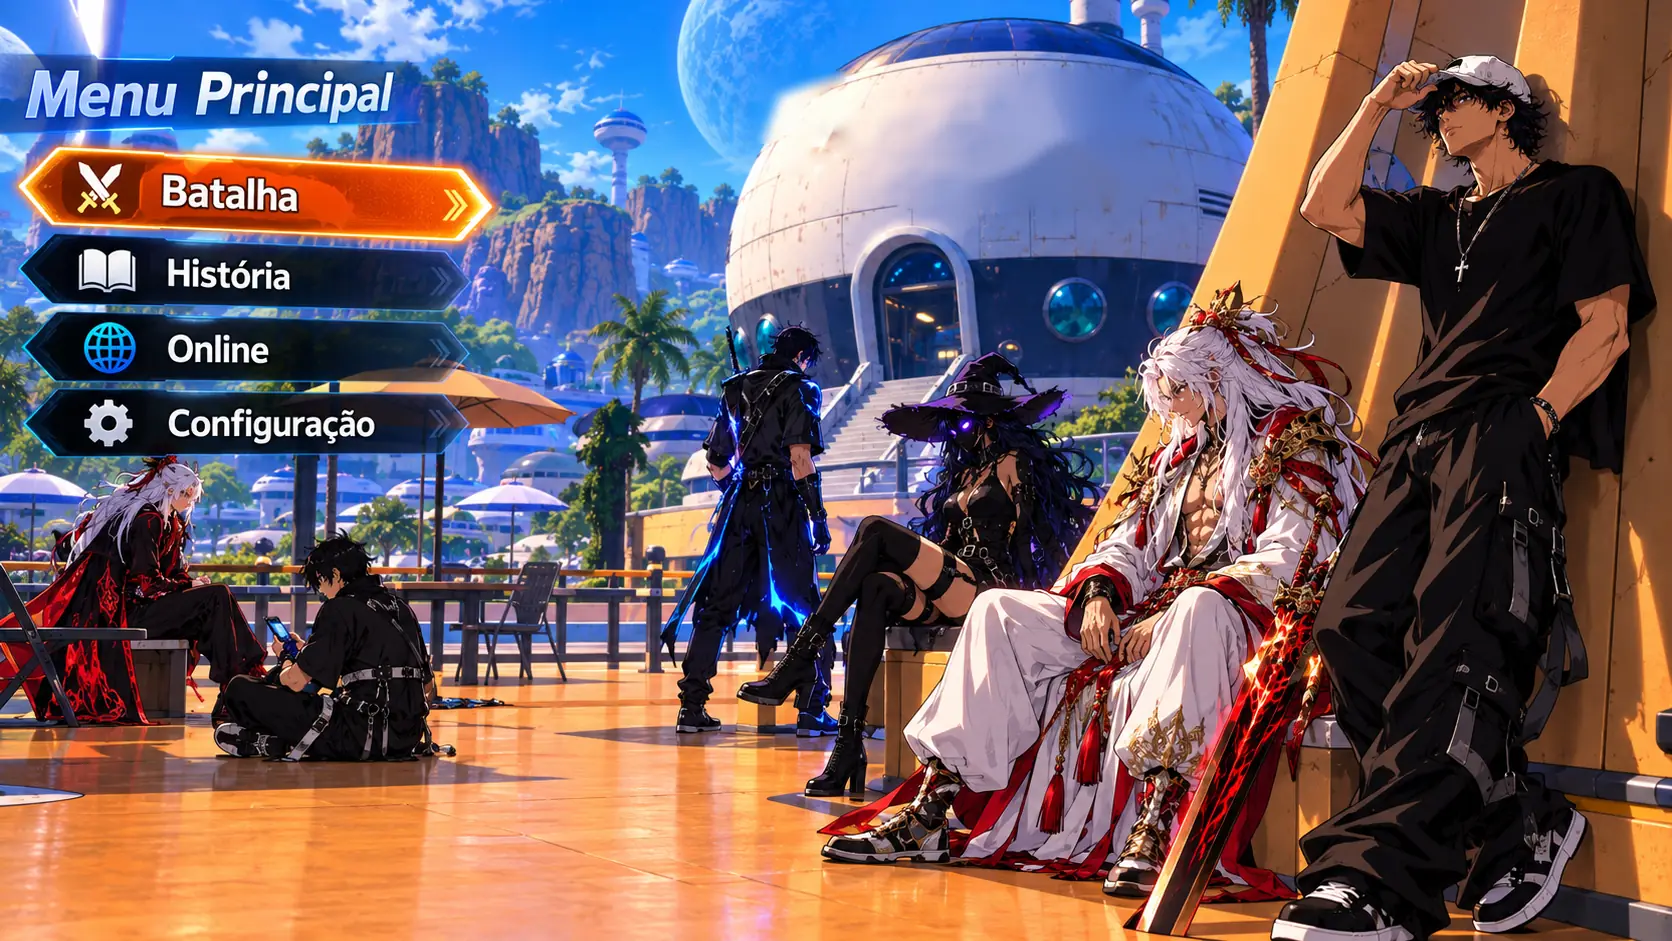
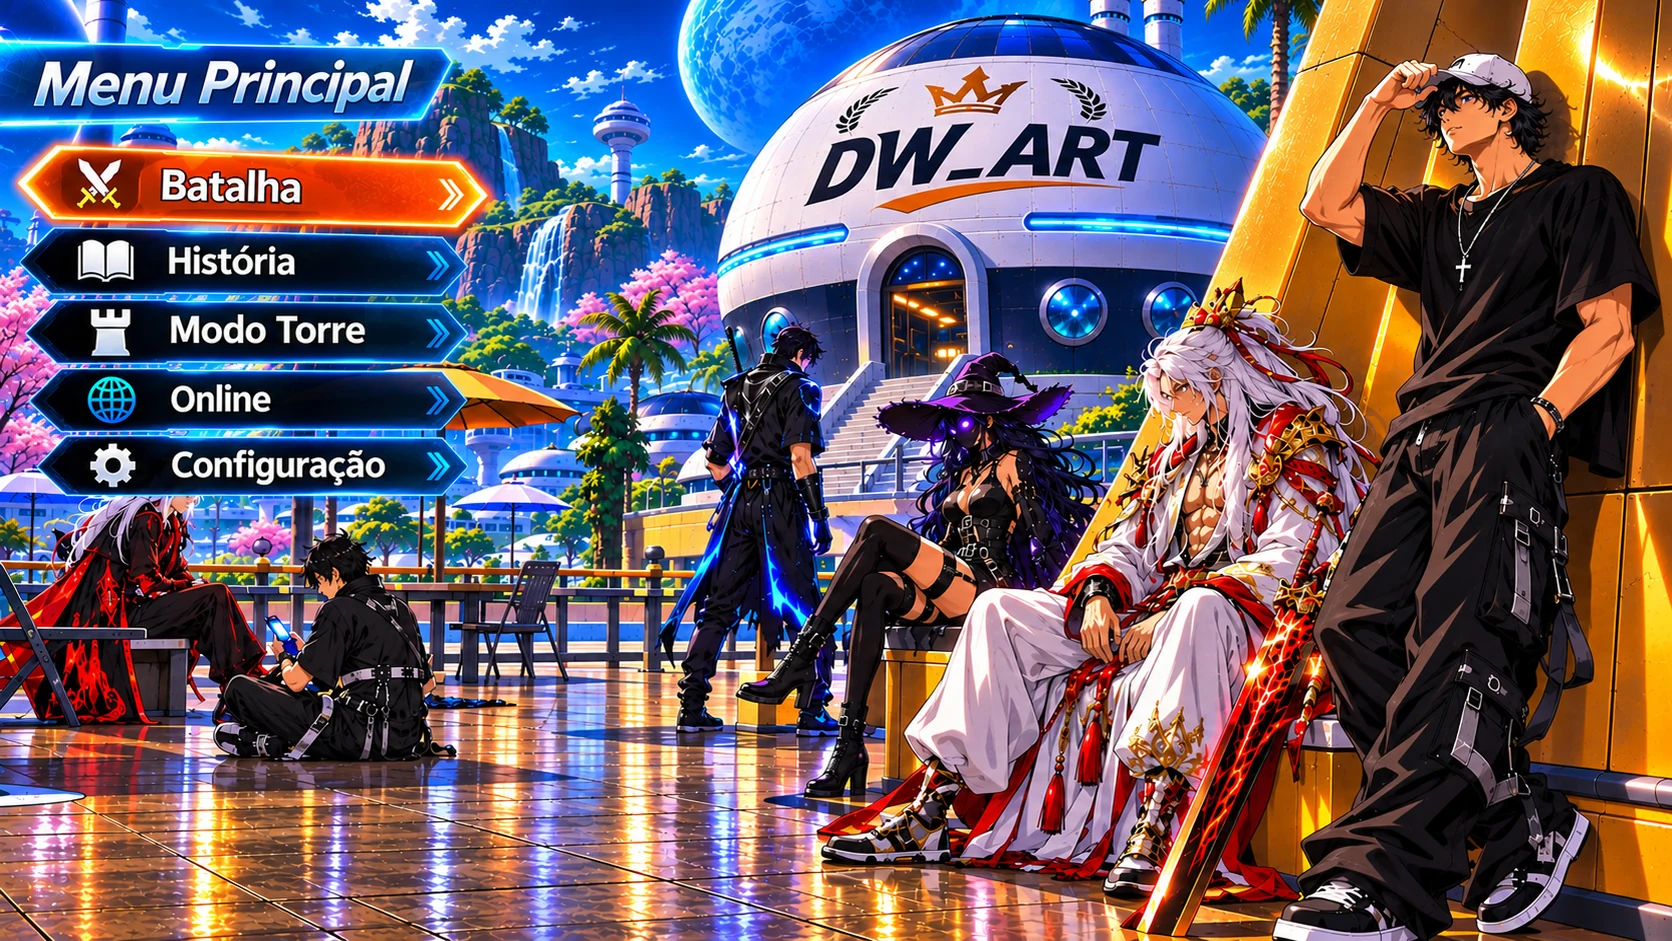
v59: novo menu principal (DW_ART) com botão Modo Torre; Torre sai da tela de modos
Claude-Session: https://claude.ai/code/session_01FCjTPRPoRQ5LxdC4Snu1pD

diff --git a/www/index.html b/www/index.html
@@ -205,15 +205,16 @@ h2{margin:0;font-family:var(--f-display);font-weight:400;font-size:clamp(26px,8v
 #mmfx i{position:absolute;bottom:-4%;width:.45cqw;height:.45cqw;border-radius:50%;background:#fff6d8;box-shadow:0 0 .8cqw #ffd27a;opacity:0;animation:fl linear infinite}
 @keyframes fl{0%{transform:translateY(0) translateX(0);opacity:0}10%{opacity:.9}90%{opacity:.6}100%{transform:translateY(-105cqh) translateX(4cqw);opacity:0}}
 .mb{position:absolute;left:1.2%;border:0;background:transparent;cursor:pointer;padding:0;overflow:hidden;clip-path:polygon(4% 0,96% 0,100% 50%,96% 100%,4% 100%,0 50%);transition:transform .12s,filter .12s;opacity:0;animation:mbin .5s cubic-bezier(.2,.9,.3,1.2) forwards}
-.mb1{top:15.8%;width:28.4%;height:9.6%;animation-delay:.35s}
-.mb2{top:25.4%;width:26.8%;height:7.6%;animation-delay:.45s}
-.mb3{top:33.6%;width:26.8%;height:7.6%;animation-delay:.55s}
-.mb4{top:41.6%;width:26.8%;height:7.6%;animation-delay:.65s}
+.mb1{top:15.7%;width:28.2%;height:8.3%;animation-delay:.35s}
+.mb2{top:24.5%;width:26.6%;height:6.8%;animation-delay:.45s}
+.mb3{top:31.9%;width:26.6%;height:6.8%;animation-delay:.55s}
+.mb4{top:39.1%;width:26.6%;height:6.8%;animation-delay:.65s}
+.mb5{top:46.3%;width:26.6%;height:6.8%;animation-delay:.75s}
 @keyframes mbin{from{opacity:0;transform:translateX(-30%)}to{opacity:1;transform:none}}
 .mb:not(.lk):hover,.mb:not(.lk):focus-visible{filter:brightness(1.25)}
 .mb:not(.lk):active{transform:scale(.97)}
 .mb .shine{position:absolute;inset:0;background:linear-gradient(105deg,transparent 30%,rgba(255,255,255,.45) 45%,transparent 60%);transform:translateX(-120%);animation:sh 3.2s ease-in-out infinite 1.2s;mix-blend-mode:screen}
-.mb4 .shine{animation-delay:2.4s;opacity:.6}
+.mb5 .shine{animation-delay:2.4s;opacity:.6}.mb3 .shine{animation-delay:1.8s;opacity:.7}
 @keyframes sh{0%,55%{transform:translateX(-120%)}85%,100%{transform:translateX(120%)}}
 .mb1::after{content:"";position:absolute;inset:0;box-shadow:inset 0 0 2cqw rgba(255,150,40,.55);animation:gp 1.4s ease-in-out infinite alternate}
 .mb.lk{background:rgba(4,6,14,.55)}
@@ -223,7 +224,7 @@ h2{margin:0;font-family:var(--f-display);font-weight:400;font-size:clamp(26px,8v
 .mb .ld{position:absolute;right:12%;top:50%;transform:translateY(-50%);font:800 1.1cqw var(--f-ui);font-style:normal;letter-spacing:.12em;color:#fff;text-shadow:0 1px 3px #000}
 .mb1:not(:disabled) .ld{display:none}
 .mb1:disabled{filter:grayscale(.6) brightness(.8)}
-#mmtoast{position:absolute;left:2%;top:51%;font:800 1.4cqw var(--f-ui);letter-spacing:.12em;color:var(--gold);text-shadow:0 2px 4px #000;text-transform:uppercase;opacity:0;transition:opacity .2s}
+#mmtoast{position:absolute;left:2%;top:55%;font:800 1.4cqw var(--f-ui);letter-spacing:.12em;color:var(--gold);text-shadow:0 2px 4px #000;text-transform:uppercase;opacity:0;transition:opacity .2s}
 #mmtoast.on{opacity:1}
 #mmfade{position:absolute;inset:0;background:#000;pointer-events:none;animation:mf 1.1s ease-out forwards}
 @keyframes mf{to{opacity:0}}
@@ -276,8 +277,9 @@ h2{margin:0;font-family:var(--f-display);font-weight:400;font-size:clamp(26px,8v
       <div id="mmfx"></div>
       <button class="mb mb1" id="goSelect" disabled aria-label="Batalha"><span class="shine"></span><em class="ld">Carregando…</em></button>
       <button class="mb mb2 lk" id="mHist" aria-label="História (bloqueado)"><span class="lock"><svg viewBox="0 0 24 24"><path d="M7 10V7a5 5 0 0 1 10 0v3" fill="none" stroke="currentColor" stroke-width="2.4"/><rect x="4.5" y="10" width="15" height="11" rx="2" fill="currentColor"/></svg>EM BREVE</span></button>
-      <button class="mb mb3 lk" id="mOnline" aria-label="Online (bloqueado)"><span class="lock"><svg viewBox="0 0 24 24"><path d="M7 10V7a5 5 0 0 1 10 0v3" fill="none" stroke="currentColor" stroke-width="2.4"/><rect x="4.5" y="10" width="15" height="11" rx="2" fill="currentColor"/></svg>EM BREVE</span></button>
-      <button class="mb mb4" id="mCfg" aria-label="Configuração"><span class="shine"></span></button>
+      <button class="mb mb3" id="mTorre" aria-label="Modo Torre"><span class="shine"></span></button>
+      <button class="mb mb4 lk" id="mOnline" aria-label="Online (bloqueado)"><span class="lock"><svg viewBox="0 0 24 24"><path d="M7 10V7a5 5 0 0 1 10 0v3" fill="none" stroke="currentColor" stroke-width="2.4"/><rect x="4.5" y="10" width="15" height="11" rx="2" fill="currentColor"/></svg>EM BREVE</span></button>
+      <button class="mb mb5" id="mCfg" aria-label="Configuração"><span class="shine"></span></button>
       <div id="mmtoast" role="status" aria-live="polite"></div>
     </div>
     <div id="mmfade"></div>
@@ -319,7 +321,6 @@ h2{margin:0;font-family:var(--f-display);font-weight:400;font-size:clamp(26px,8v
     <div id="modeGrid">
       <button class="mode" data-m="pve" style="--c:#36e07a"><span class="mbg" data-i="denilson"></span><span class="tag">LIBERADO</span><b>PVE</b><span class="md">Você vs CPU</span></button>
       <button class="mode" data-m="treino" style="--c:#3fd8ff"><span class="mbg" data-i="xiao"></span><span class="tag">LIBERADO</span><b>TREINO</b><span class="md">Teste golpes — o rival não ataca</span></button>
-      <button class="mode" data-m="torre" style="--c:#ffd23f"><span class="mbg" data-i="arkarus"></span><span class="tag">TESTE</span><b>TORRE</b><span class="md">Enfrente todos — a vida continua</span></button>
       <button class="mode lock" data-m="pvp" style="--c:#ff3b5c"><span class="mbg" data-i="linfeng"></span><span class="tag">BLOQUEADO</span><b>PVP</b><span class="md">Online contra jogadores</span><span class="pad"><svg viewBox="0 0 24 24"><path d="M7 10V7a5 5 0 0 1 10 0v3" fill="none" stroke="currentColor" stroke-width="2.4"/><rect x="4.5" y="10" width="15" height="11" rx="2" fill="currentColor"/></svg>EM BREVE</span></button>
       <button class="mode lock" data-m="versus" style="--c:#ffb020"><span class="mbg" data-i="arkarus"></span><span class="tag">BLOQUEADO</span><b>VERSUS</b><span class="md">2 jogadores no mesmo celular</span><span class="pad"><svg viewBox="0 0 24 24"><path d="M7 10V7a5 5 0 0 1 10 0v3" fill="none" stroke="currentColor" stroke-width="2.4"/><rect x="4.5" y="10" width="15" height="11" rx="2" fill="currentColor"/></svg>EM BREVE</span></button>
       <button class="mode lock" data-m="story" style="--c:#b46bff"><span class="mbg" data-i="stage"></span><span class="tag">BLOQUEADO</span><b>HISTÓRIA</b><span class="md">A jornada de Denilson</span><span class="pad"><svg viewBox="0 0 24 24"><path d="M7 10V7a5 5 0 0 1 10 0v3" fill="none" stroke="currentColor" stroke-width="2.4"/><rect x="4.5" y="10" width="15" height="11" rx="2" fill="currentColor"/></svg>EM BREVE</span></button>
@@ -2672,10 +2673,10 @@ $('goHow').onclick=()=>{audioInit();howFrom='config';showScreen('how')};
   const fx=$('mmfx');for(let i=0;i<26;i++){const d=document.createElement('i');d.style.left=(Math.random()*100)+'%';d.style.animationDuration=(7+Math.random()*9)+'s';d.style.animationDelay=(-Math.random()*14)+'s';const s=.5+Math.random()*1.2;d.style.transform='scale('+s+')';fx.appendChild(d)}
   let tt=0;const toast=(m)=>{const t=$('mmtoast');t.textContent=m;t.classList.add('on');clearTimeout(tt);tt=setTimeout(()=>t.classList.remove('on'),1600)};
   for(const [id,n] of [['mHist','História'],['mOnline','Online']])$(id).onclick=()=>{audioInit();const b=$(id);b.classList.remove('shake');void b.offsetWidth;b.classList.add('shake');SFX.block();toast(n+' bloqueado — em breve!')};
-  $('mCfg').onclick=()=>{audioInit();SFX.whoosh();showScreen('config')};$('cfgBack').onclick=()=>showScreen('title')}
+  $('mCfg').onclick=()=>{audioInit();SFX.whoosh();showScreen('config')};$('mTorre').onclick=()=>{if(!SPR_OK)return;audioInit();fsTry();SFX.whoosh();G.gmode='torre';$('teamRow').hidden=true;renderSel();showScreen('select')};$('cfgBack').onclick=()=>showScreen('title')}
 $('pHow').onclick=()=>{howFrom='pause';showScreen('how')};
 $('howBack').onclick=()=>showScreen(howFrom);
-$('selBack').onclick=()=>showScreen('modes');
+$('selBack').onclick=()=>showScreen(G.gmode==='torre'?'title':'modes');
 const ALLC=['denilson','denilson2','linfeng','arkarus','aylla','white','xiao','magmus'];const ROS={magmus:{c:'#ff5a14',d:'General de força bruta. Normal: só socos e chutes pesados. No Modo Magma (braços de lava) libera os especiais: Punho de Magma, Erupção (baixo/frente + Ki) e o especial Chuva de Magma.',st:[62,96,84]},denilson:{c:'#4ea4ff',d:'Lutador de rua com ki azul. Transforma no Anjo Sombrio com asas. Super: Chuva de Espadas Sombrias.',st:[85,68,80]},
   linfeng:{c:'#ff3047',d:'Mestre da katana e da chama carmesim. Transforma no Dragão Sombrio. Supers: Fúria do Dragão e Dança do Dragão.',st:[68,88,76]},
   denilson2:{c:'#3f8cff',d:'A nova versão do Denilson: mais rápido, com ki azul elétrico. Transforma na Fera Desperta (sem camisa, ki vermelho). Supers: Explosão Azul / Carmesim e Rush Relâmpago.',st:[90,72,84]},
